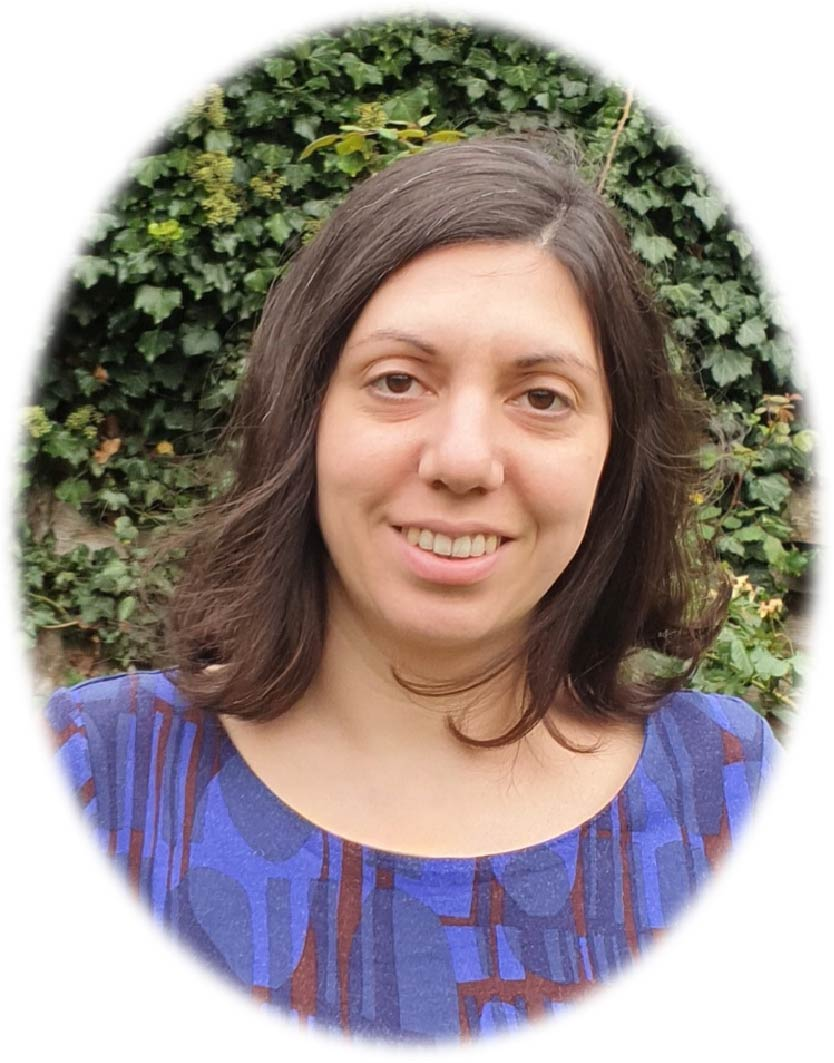
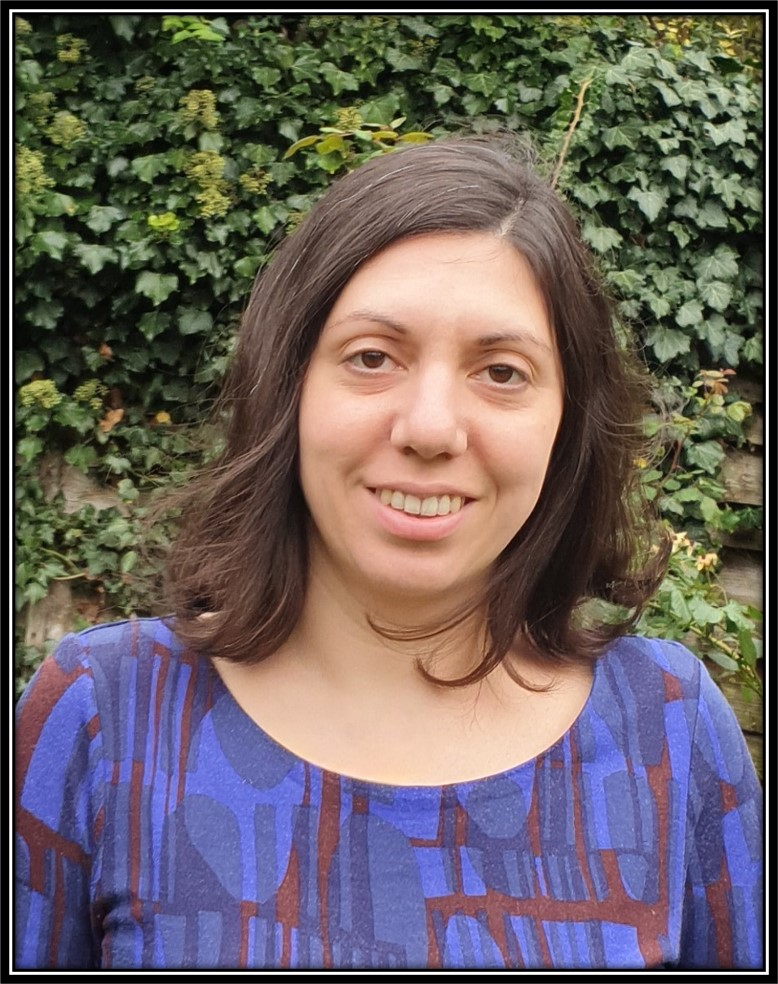
added cover image

diff --git a/src/src/Home.js b/src/src/Home.js
@@ -26,11 +26,11 @@ const sponsorFundingList = _.flatten(_.map(getSponsorData(), sponsor => sponsor.
 const total = dollar.format(_.reduce(sponsorFundingList, (sum, n) => sum + n, 0));
 
 /* Markdown for Home section text. */
-const homeText = `
-*WRITE MORE HERE*
-I work at the interface of plant science and mathematical modelling to understand how plants sense temperature to control their development.
-*add email here*
-`;
+//const homeText = `
+//*WRITE MORE HERE*
+//I work at the interface of plant science and mathematical modelling to understand how plants sense temperature to control their development.
+//*add email here*
+//`;
 // Dr Rea L Antoniou-Kourounioti is a Post-Doc in the groups of [Prof Martin Howard](https://www.jic.ac.uk/people/martin-howard/) and [Prof Dame Caroline Dean](https://www.jic.ac.uk/people/caroline-dean/) at the [John Innes Centre](https://www.jic.ac.uk/).
 //Rea has published ${journal} journal articles and ${chapter} book-chapter.
 
@@ -40,7 +40,7 @@ const renderDeck = (deckNum) => {
     <CardDeck key={deckNum} style={deckStyle}>
       {[
         (<Col className="col-md-auto">
-          <Card style={{ border: `1px solid ${ColorCode.background}`, marginRight: '0em', width: '230px' }}>
+          <Card style={{ border: 'transparent', backgroundColor: 'transparent', marginRight: '0em', width: '230px' }}>
             <Card.Body>
               <img alt='Media' style={{ marginRight: '1px' }} className={'rounded float-right'} width='200px' src={'images/Rea_2020.jpg'}/>
             </Card.Body>
@@ -48,16 +48,17 @@ const renderDeck = (deckNum) => {
         </Col>
         ),
         (<Col className="container-fluid mt-4">
-          <Card style={{ border: `1px solid ${ColorCode.background}`, marginLeft: '0em' }}>
+          <img src='images/background.jpg' style={{ objectFit: 'cover', display: 'block', width: '100%', maxHeight: '100px', height: '100px', maxWidth: '600px', margin: 'auto', backgroundSize: '200px 400px', backgroundPosition: '0px 40%', position:'relative' }}/>
+          <Card style={{ textAlign: 'center', border: 'transparent', backgroundColor: 'transparent', marginLeft: '0em' }}>
             <Card.Body>
               <Title title={'Rea L. Antoniou-Kourounioti'} selectColor={'darkBlue'}/>
-              <Markdown source={homeText}/>
-              <a href='https://www.jic.ac.uk/people/dr-rea-l-antoniou-kourounioti/'> <img alt='Media' style={{ marginRight: '15px' }} className={'rounded float-left'} width='100px' src={'images/jic.png'}/> </a>
-              <a href='https://twitter.com/ReaLAntKour'> <img alt='Media' style={{ marginRight: '15px' }} className={'rounded float-left'} width='50px' src={'images/Twitter.png'}/> </a>
-              <a href='https://scholar.google.co.uk/citations?user=ZvaNmKcAAAAJ&hl=en'> <img alt='Media' style={{ marginRight: '15px' }} className={'rounded float-left'} width='50px' src={'images/google_scholar.png'}/> </a>
-              <a href='https://www.linkedin.com/in/rea-laila-antoniou-kourounioti-8962047/'> <img alt='Media' style={{ marginRight: '15px' }} className={'rounded float-left'} width='50px' src={'images/linkedin.png'}/> </a>
-              <a href='https://www.researchgate.net/profile/Rea_Antoniou_Kourounioti'> <img alt='Media' style={{ marginRight: '15px' }} className={'rounded float-left'} width='50px' src={'images/researchgate.png'}/> </a>
-              <a href='https://publons.com/researcher/AAY-3284-2020/'> <img alt='Media' style={{ marginRight: '15px' }} className={'rounded float-left'} width='140px' src={'images/publons.jpg'}/> </a>
+              <a href='https://www.jic.ac.uk/people/dr-rea-l-antoniou-kourounioti/'> <img alt='Media' style={{ marginRight: '15px' }} className={'rounded float-center'} height='50px' src={'images/jic.png'}/> </a>
+              <a href='https://twitter.com/ReaLAntKour'> <img alt='Media' style={{ marginRight: '15px' }} className={'rounded float-center'} height='50px' src={'images/Twitter.png'}/> </a>
+              <a href='https://scholar.google.co.uk/citations?user=ZvaNmKcAAAAJ&hl=en'> <img alt='Media' style={{ marginRight: '15px' }} className={'rounded float-center'} height='50px' src={'images/google_scholar.png'}/> </a>
+              <a href='https://www.linkedin.com/in/rea-laila-antoniou-kourounioti-8962047/'> <img alt='Media' style={{ marginRight: '15px' }} className={'rounded float-center'} height='50px' src={'images/linkedin.png'}/> </a>
+              <a href='https://www.researchgate.net/profile/Rea_Antoniou_Kourounioti'> <img alt='Media' style={{ marginRight: '15px' }} className={'rounded float-center'} height='50px' src={'images/researchgate.png'}/> </a>
+              <a href='https://publons.com/researcher/AAY-3284-2020/'> <img alt='Media' style={{ marginRight: '15px' }} className={'rounded float-center'} height='50px' src={'images/publons.jpg'}/> </a>
+              <a href='mailto:Rea.Kourounioti@jic.ac.uk'> <img alt='Media' style={{ marginRight: '15px' }} className={'rounded float-center'} height='50px' src={'images/envelope.png'}/> </a>
             </Card.Body>
           </Card>
         </Col>
@@ -66,7 +67,15 @@ const renderDeck = (deckNum) => {
     </CardDeck>
   );
 };
-
+// style={{height: '100px', object-fit: 'cover', display: 'block', width: '100%'}}
+//<img className={'card-img-top'} src={'images/background.jpg'} max-height= '100px' height= '100px' max-width= '600px' margin='auto' background-size='200px 400px' background-position= '0px 40%' position='relative'/>
+//<img alt='Media' object-fit={'cover'} display={'flex'} className={'card-img-top'} height='100px' width='100%' src={'images/background.jpg'}/>
+//</div>
+//<Card style={{border: 'transparent', backgroundColor: 'transparent'}}>
+//<img alt='Media' style={{ marginRight: '1px' }} className={'card-img-overlay'} width='800px' src={'images/background.jpg'}/>
+//</Card>
+//<Card style={{ border: `1px solid ${ColorCode.background}`, marginRight: '0em', width: '230px' }}>
+//<Markdown source={homeText}/>
 const renderDecks = () => {
   const decks = [];
   for (let i = 0; i < 1; i++) {

diff --git a/src/src/Top.js b/src/src/Top.js
@@ -9,20 +9,24 @@ import { ColorCode } from './Constants';
  */
 function Top() {
   const navbarStyle = { backgroundColor: ColorCode.darkBlue, color: ColorCode.background, fontWeight: 'bold' };
+  const navbarItemStyle = { backgroundColor: ColorCode.darkBlue, color: ColorCode.background, fontWeight: 'bold' };
   return (
     <div>
       <Navbar style={navbarStyle}>
         <Container className="justify-content-center">
           <Nav>
-            <Nav.Item><Nav.Link href="#workExperience" style={navbarStyle}>Research Experience</Nav.Link></Nav.Item>
-            <Nav.Item><Nav.Link href="#education" style={navbarStyle}>Education</Nav.Link></Nav.Item>
-            <Nav.Item><Nav.Link href="#papers" style={navbarStyle}>Papers</Nav.Link></Nav.Item>
-            <Nav.Item><Nav.Link href="#conferences" style={navbarStyle}>Conferences and Seminars</Nav.Link></Nav.Item>
+            <Nav.Item><Nav.Link href="#researchInterests" style={navbarItemStyle}>Research Interests</Nav.Link></Nav.Item>
+            <Nav.Item><Nav.Link href="#workExperience" style={navbarItemStyle}>Research Experience</Nav.Link></Nav.Item>
+            <Nav.Item><Nav.Link href="#education" style={navbarItemStyle}>Education</Nav.Link></Nav.Item>
+            <Nav.Item><Nav.Link href="#papers" style={navbarItemStyle}>Papers</Nav.Link></Nav.Item>
+            <Nav.Item><Nav.Link href="#conferences" style={navbarItemStyle}>Conferences and Seminars</Nav.Link></Nav.Item>
           </Nav>
         </Container>
       </Navbar>
     </div>
   );
 }
+//const navbarStyle = { border: `4px solid ${ColorCode.darkBlue}`, backgroundColor: ColorCode.background, color: ColorCode.darkBlue, fontWeight: 'bold' };
+//const navbarItemStyle = { backgroundColor: ColorCode.background, color: ColorCode.darkBlue, fontWeight: 'bold' };
 
 export default Top;

diff --git a/src/src/ResearchInterests.js b/src/src/ResearchInterests.js
@@ -1,0 +1,28 @@
+import React, { useState } from 'react';
+import Image from 'react-bootstrap/Image';
+import PropTypes from 'prop-types';
+import _ from 'lodash';
+import Container from 'react-bootstrap/Container';
+import Title from './Title';
+import { ColorCode } from './Constants';
+
+/**
+ * Display the Research Interests section.
+ */
+function ResearchInterests(props) {
+  return (
+    <div style={props.sectionStyle} id="researchInterests">
+      <Container>
+        <Title title={'Research Interests'} selectColor="darkBlue"/>
+        <p>*WRITE MORE HERE*</p>
+        <p>I work at the interface of plant science and mathematical modelling to understand how plants sense temperature to control their development.</p>
+      </Container>
+    </div>
+  );
+}
+        
+ResearchInterests.propTypes = {
+  sectionStyle: PropTypes.object.isRequired,
+};
+
+export default ResearchInterests;

diff --git a/src/src/index.js b/src/src/index.js
@@ -9,6 +9,7 @@ import News from './News';
 import Research from './Research';
 import Papers from './Papers';
 import Conference from './Conference';
+import ResearchInterests from './ResearchInterests';
 import WorkExperience from './WorkExperience';
 import Education from './Education';
 import Members from './Members';
@@ -26,6 +27,7 @@ ReactDOM.render(
   <React.StrictMode>
     <Home sectionStyle={sectionStyle}/>
     <Top/>
+    <ResearchInterests sectionStyle={sectionStyle2}/>
     <WorkExperience sectionStyle={sectionStyle2}/>
     <Education sectionStyle={sectionStyle2}/>
     <Papers sectionStyle={sectionStyle2}/>

diff --git a/src/src/data/EducationData.js b/src/src/data/EducationData.js
@@ -16,7 +16,7 @@ class WorkExperienceData {
             "key": "phd",
             "type": "phd",
             "year": "2009-14",
-            "title": "PhD              in Biosciences",
+            "title": "PhD in Biosciences",
             "location": "University of Nottingham, UK",
             "topic": "Artificial Photosynthesis",
             "area":"Interdisciplinary research combining Biology, Mathematics and Chemical Engineering",
